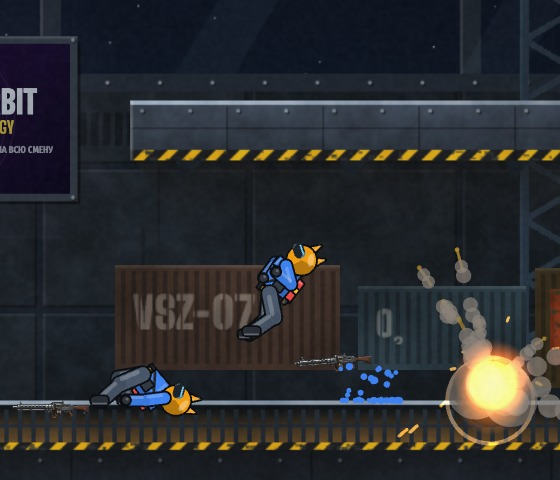
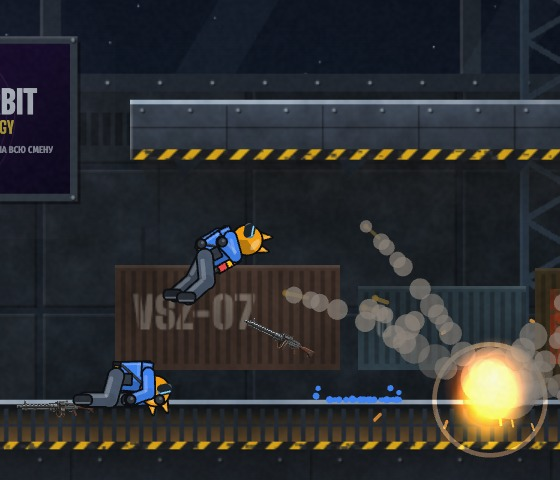
fix: corpses fall at fighter gravity; splash throws by cause
- Corpse gravity is CORPSE_GRAVITY = GRAVITY x 60 / tick rate (0.18 per
  tick^2), the rate living fighters really fall at; the launch scale S
  reads it too (0.674 -> 0.477), so throws keep the mockup's arcs
- Throw and gib power lowered to the mockup's arcs at the new gravity
  (15 -> 12, 9.6 -> 8; gib spread 0.07 -> 0.05)
- DEATH carries an optional blast flag, true for a rocket or grenade
  splash kill: such a corpse is thrown radially at full strength however
  close the blast was (a near splash no longer throws weaker); a shot
  shoves; older hosts without the flag keep the distance rule
- A later blast push is slowed as a whole to the speed cap, like a launch
- Push tests move to corpsePush.test.ts

diff --git a/src/game/systems/ragdoll/corpseLaunch.ts b/src/game/systems/ragdoll/corpseLaunch.ts
@@ -2,10 +2,10 @@
 // Values come from the approved mockup scenes (docs/plans/2026-11-02-death-ragdoll-mockup.html):
 // mockup velocity × S, mockup distances × MOCKUP_SCALE. Pure math on the corpse data.
 
-import { GRAVITY, PHYSICS_TICK_RATE } from '../../../constants';
+import { PHYSICS_TICK_RATE } from '../../../constants';
 import { Vector2 } from '../../../types';
 import { Corpse, CorpsePoint, CorpsePointId } from './corpseBody';
-import { MAX_SPEED } from './corpseStep';
+import { CORPSE_GRAVITY, MAX_SPEED } from './corpseStep';
 
 /** Mockup lengths (136 px fighter) → game units (72-unit fighter). */
 const MOCKUP_SCALE = 0.53;
@@ -13,18 +13,18 @@ const MOCKUP_SCALE = 0.53;
 const MOCKUP_GRAVITY = 0.42;
 /**
  * Mockup velocities (px per 60 Hz frame) → units per tick, keeping every throw's arc and spin in fighter
- * heights: corpse gravity is ~6.5× the mockup's in game units, so velocities scale by √6.5 more than
- * MOCKUP_SCALE / 2 and the throws play out ~2.5× faster than in the mockup.
+ * heights: corpse gravity is ~3.2× the mockup's in game units, so velocities scale by √3.2 more than
+ * MOCKUP_SCALE / 2 and the throws play out ~1.8× faster than in the mockup.
  */
-const S = MOCKUP_SCALE / 2 * Math.sqrt(GRAVITY / (MOCKUP_GRAVITY * MOCKUP_SCALE / 4));
+const S = MOCKUP_SCALE / 2 * Math.sqrt(CORPSE_GRAVITY / (MOCKUP_GRAVITY * MOCKUP_SCALE / 4));
 /** Entity velocity is per 60 Hz frame (Matter's base step); corpse velocity is per tick. */
 const ENTITY_VEL_PER_TICK = 60 / PHYSICS_TICK_RATE;
 
 /** Fall: the hip slips toward the shooter and the knees straighten (backwards from the way the body faces). */
 const FALL_HIP = 1;
 const FALL_KNEE = 1;
-/** Thrown: the mockup's rocket blast (power 15, reach 260); the side nearest the blast gets the most. */
-const THROW_POWER = 15 * S;
+/** Thrown: the mockup's rocket blast (power 15, reach 260), 12 here: its power faded with the distance to the blast, ours only across the body. */
+const THROW_POWER = 12 * S;
 const THROW_REACH = 260 * MOCKUP_SCALE;
 /** A shot: the mockup's shotgun (about 7 back and 3 up per frame). Closer than SHOT_RANGE to the body, `from` is a shot. */
 const SHOT_POWER = 7 * S;
@@ -33,20 +33,17 @@ const SHOT_RANGE = 40;
 const LIFT = 0.45;
 /** No point of a thrown body gets less than this share of the power. */
 const THROW_FLOOR = 0.5;
-/** Gib: the mockup's close blast (power 12, kept at 0.8) and its random scatter... */
-const GIB_POWER = 12 * 0.8 * S;
+/** Gib: the mockup's close blast (12 × 0.8; 8 here for the same reason as THROW_POWER) and its random scatter... */
+const GIB_POWER = 8 * S;
 /** ...plus pieces flying apart from the body's middle: this much speed per unit of distance from it. */
-const GIB_SPREAD = 0.07;
+const GIB_SPREAD = 0.05;
 /** Blast centre when the host sent none: this far in front of the hip (mockup: 40 px for a throw, 26 for a gib). */
 const DEFAULT_THROW_FROM = 40 * MOCKUP_SCALE;
 const DEFAULT_GIB_FROM = 26 * MOCKUP_SCALE;
 /** An explosion pushes corpse points within this radius × its size, fading to nothing at the edge. */
 const PUSH_RADIUS = 150;
 const PUSH_POWER = 13 * S;
-/**
- * Upward share of a later blast's push, more than a fresh throw's LIFT: a lying body has the floor
- * under it, so a blast beside it mostly shoves it along the floor; with this it hops up as well.
- */
+/** Upward share of a later blast's push, more than LIFT: a lying body on the floor hops instead of only sliding. */
 const PUSH_LIFT = 1;
 /** Closer than this to a blast centre a point has no direction: it is pushed straight up. */
 const MIN_DIST = 0.001;
@@ -119,14 +116,14 @@ const fall = (c: Corpse, from: Vector2 | undefined) => {
 const frontOfHip = (c: Corpse, ahead: number): Vector2 => ({ x: c.points.hip.x + c.facing * ahead, y: c.points.hip.y });
 
 /**
- * Shotgun point blank or a rocket nearby: the whole body is flung away. A centre right at the body is
- * a shot (the pellets' last position): a shove of the mockup's shotgun strength. From SHOT_RANGE away
- * on it is a blast of the mockup's rocket strength; in between the two blend.
+ * Shotgun point blank or a rocket nearby: the whole body is flung away. A `splash` kill throws it at
+ * the mockup's rocket strength, a shot shoves it at the mockup's shotgun strength. Older hosts do not
+ * say: a centre within SHOT_RANGE of the body counts as a shot, farther as a blast, in between both blend.
  */
-const thrown = (c: Corpse, from: Vector2 | undefined) => {
+const thrown = (c: Corpse, from: Vector2 | undefined, splash?: boolean) => {
     const at = from ?? frontOfHip(c, DEFAULT_THROW_FROM);
     const near = Math.min(...BODY.map(id => Math.hypot(c.points[id].x - at.x, c.points[id].y - at.y)));
-    const w = Math.min(1, near / SHOT_RANGE);
+    const w = splash === undefined ? Math.min(1, near / SHOT_RANGE) : splash ? 1 : 0;
     blast(c, at, SHOT_POWER + (THROW_POWER - SHOT_POWER) * w, THROW_REACH, THROW_FLOOR, w);
 };
 
@@ -172,10 +169,10 @@ const fitSpeedCap = (c: Corpse) => {
     for (const p of points) { p.px = p.x - (p.x - p.px) * k; p.py = p.y - (p.y - p.py) * k; }
 };
 
-/** Start a fresh corpse moving by its kind of death; `vel` = the victim's velocity (entity units). */
-export const launchCorpse = (c: Corpse, from: Vector2 | undefined, vel: Vector2): void => {
+/** Start a fresh corpse moving by its kind of death; `vel`: the victim's velocity (entity units); `blast`: a splash kill. */
+export const launchCorpse = (c: Corpse, from: Vector2 | undefined, vel: Vector2, blast?: boolean): void => {
     tossGun(c);
-    LAUNCH[c.kind](c, from);
+    LAUNCH[c.kind](c, from, blast);
     const vx = vel.x * ENTITY_VEL_PER_TICK, vy = vel.y * ENTITY_VEL_PER_TICK;
     for (const p of Object.values(c.points)) kick(p, vx, vy);
     fitSpeedCap(c);
@@ -185,13 +182,16 @@ export const launchCorpse = (c: Corpse, from: Vector2 | undefined, vel: Vector2)
 export const pushCorpses = (corpses: Corpse[], x: number, y: number, size = 1): void => {
     const radius = PUSH_RADIUS * size;
     for (const c of corpses) {
+        let touched = false;
         for (const p of Object.values(c.points)) {
             const dx = p.x - x, dy = p.y - y;
             const d = Math.hypot(dx, dy);
             if (d >= radius) continue;
             const f = PUSH_POWER * size * (1 - d / radius);
+            touched = true;
             if (d < MIN_DIST) { kick(p, 0, -f); continue; }
             kick(p, dx / d * f, dy / d * f - f * PUSH_LIFT);
         }
+        if (touched) fitSpeedCap(c);
     }
 };

diff --git a/src/game/systems/ragdoll/corpsePush.test.ts b/src/game/systems/ragdoll/corpsePush.test.ts
@@ -1,0 +1,62 @@
+import { describe, it, expect } from 'vitest';
+import { Platform } from '../../../types';
+import type { DeathEvent } from '../events';
+import { Corpse, createCorpse } from './corpseBody';
+import { MAX_SPEED, speedOf, stepCorpse } from './corpseStep';
+import { launchCorpse, pushCorpses } from './corpseLaunch';
+
+const TOP = 500;
+const FLOOR: Platform = { id: 'floor', x: -2000, y: TOP, w: 4000, h: 40, color: '#000' };
+
+const death = (extra: Partial<DeathEvent> = {}): DeathEvent => ({
+    type: 'DEATH', x: 0, y: TOP, color: '#fff', height: 72, vel: { x: 0, y: 0 }, facing: 1, ...extra,
+});
+
+const run = (c: Corpse, ticks: number, platforms: Platform[] = [FLOOR], each?: () => void) => {
+    for (let i = 0; i < ticks; i++) { stepCorpse(c, platforms); each?.(); }
+};
+
+/** A corpse launched by `kind`, with no hit origin. */
+const launched = (kind: DeathEvent['kind']) => {
+    const c = createCorpse(death({ kind }));
+    launchCorpse(c, undefined, { x: 0, y: 0 });
+    return c;
+};
+
+describe('pushCorpses', () => {
+    it('a blast right on a body is slowed as a whole to the speed cap, not point by point', () => {
+        const c = launched('fall');
+        run(c, 480);
+        const hip = { ...c.points.hip };
+        const before = Object.values(c.points).map(p => ({ x: p.x, y: p.y }));
+        pushCorpses([c], hip.x + 5, hip.y, 2);
+        const speeds = Object.values(c.points).map(p => Math.hypot(p.x - p.px, p.y - p.py));
+        expect(Math.max(...speeds)).toBeCloseTo(MAX_SPEED, 5);
+        // Every kick kept its direction and its share of the strongest one
+        const kicks = Object.values(c.points).map((p, i) => ({ x: p.x - p.px, y: p.y - p.py, at: before[i] }));
+        const nearest = kicks.reduce((a, k) => (Math.hypot(k.at.x - hip.x - 5, k.at.y - hip.y) < Math.hypot(a.at.x - hip.x - 5, a.at.y - hip.y) ? k : a));
+        expect(Math.hypot(nearest.x, nearest.y)).toBeCloseTo(MAX_SPEED, 5);
+        expect(Math.min(...speeds)).toBeLessThan(MAX_SPEED / 2);
+    });
+
+    it('an explosion pushes a lying body', () => {
+        const near = launched('fall');
+        const far = createCorpse(death({ x: 430 }));
+        launchCorpse(far, undefined, { x: 0, y: 0 });
+        run(near, 480);
+        run(far, 480);
+        const farBefore = JSON.stringify(far.points);
+        // Lying still before the blast, so the speed afterwards is the blast's doing
+        expect(speedOf(near)).toBeLessThan(0.1);
+        pushCorpses([near, far], near.points.hip.x + 30, near.points.hip.y);
+        expect(speedOf(near)).toBeGreaterThan(1);
+        // 400 units away: not touched at all
+        expect(Math.abs(far.points.hip.x - near.points.hip.x - 30)).toBeGreaterThan(300);
+        expect(JSON.stringify(far.points)).toBe(farBefore);
+        // It hops off the floor, not only slides along it
+        const top = near.points.hip.y;
+        let highest = top;
+        run(near, 60, [FLOOR], () => { highest = Math.min(highest, near.points.hip.y); });
+        expect(top - highest).toBeGreaterThan(15);
+    });
+});

diff --git a/src/game/systems/ragdoll/corpses.test.ts b/src/game/systems/ragdoll/corpses.test.ts
@@ -3,8 +3,8 @@ import { GameMode, Platform } from '../../../types';
 import { createMockState } from '../../../test/mocks';
 import type { DeathEvent } from '../events';
 import { Corpse, CorpsePointId, createCorpse } from './corpseBody';
-import { MAX_SPEED, speedOf, stepCorpse } from './corpseStep';
-import { launchCorpse, pushCorpses } from './corpseLaunch';
+import { MAX_SPEED, stepCorpse } from './corpseStep';
+import { launchCorpse } from './corpseLaunch';
 import { addCorpse, MAX_CORPSES, updateCorpses } from './corpses';
 
 const TOP = 500;
@@ -65,6 +65,19 @@ describe('launchCorpse', () => {
         }
     });
 
+    it('a splash right beside the body throws it at least as hard as one farther off', () => {
+        const meanSpeed = (dx: number) => {
+            let sum = 0;
+            for (let i = 0; i < REPEAT; i++) {
+                const c = createCorpse(death({ kind: 'thrown' }));
+                launchCorpse(c, { x: c.points.hip.x + dx, y: TOP - 2 }, { x: 0, y: 0 }, true);
+                sum += Math.hypot(c.points.hip.x - c.points.hip.px, c.points.hip.y - c.points.hip.py);
+            }
+            return sum / REPEAT;
+        };
+        expect(meanSpeed(10)).toBeGreaterThanOrEqual(meanSpeed(60));
+    });
+
     it('a fast victim is slowed as a whole to the speed cap, not point by point', () => {
         const c = createCorpse(death({ kind: 'thrown' }));
         launchCorpse(c, { x: c.points.hip.x + 40, y: c.points.hip.y }, { x: -40, y: 0 });
@@ -110,29 +123,6 @@ describe('launchCorpse', () => {
         launchCorpse(moving, undefined, { x: 4, y: 0 });
         const vx = (c: Corpse) => c.points.hip.x - c.points.hip.px;
         expect(vx(moving)).toBeGreaterThan(vx(still) + 1);
-    });
-});
-
-describe('pushCorpses', () => {
-    it('an explosion pushes a lying body', () => {
-        const near = launched('fall');
-        const far = createCorpse(death({ x: 430 }));
-        launchCorpse(far, undefined, { x: 0, y: 0 });
-        run(near, 480);
-        run(far, 480);
-        const farBefore = JSON.stringify(far.points);
-        // Lying still before the blast, so the speed afterwards is the blast's doing
-        expect(speedOf(near)).toBeLessThan(0.1);
-        pushCorpses([near, far], near.points.hip.x + 30, near.points.hip.y);
-        expect(speedOf(near)).toBeGreaterThan(1);
-        // 400 units away: not touched at all
-        expect(Math.abs(far.points.hip.x - near.points.hip.x - 30)).toBeGreaterThan(300);
-        expect(JSON.stringify(far.points)).toBe(farBefore);
-        // It hops off the floor, not only slides along it
-        const top = near.points.hip.y;
-        let highest = top;
-        run(near, 60, [FLOOR], () => { highest = Math.min(highest, near.points.hip.y); });
-        expect(top - highest).toBeGreaterThan(15);
     });
 });
 

diff --git a/src/game/systems/ragdoll/corpseStep.ts b/src/game/systems/ragdoll/corpseStep.ts
@@ -1,10 +1,15 @@
 // One physics tick of a corpse: verlet motion, link relaxation with joint limits, platform collision.
 // Pure math on the corpse data; runs on the client only, at the fixed 120 ticks/s.
 
-import { GRAVITY } from '../../../constants';
+import { GRAVITY, PHYSICS_TICK_RATE } from '../../../constants';
 import { Platform, Vector2 } from '../../../types';
 import { Corpse, CorpseLink, CorpsePoint } from './corpseBody';
 
+/**
+ * Corpse gravity in units per tick²: the rate living fighters really fall at. GRAVITY is added each tick
+ * to an entity velocity that is per 60 Hz frame (Matter's base step), so it moves them by half of it.
+ */
+export const CORPSE_GRAVITY = GRAVITY * 60 / PHYSICS_TICK_RATE;
 /** Share of the velocity kept per tick in the air. */
 const DAMPING = 0.995;
 /** Relaxation passes per tick: more passes = stiffer links. */
@@ -25,7 +30,7 @@ const MIN_DIST = 0.001;
 const CREEP = 1;
 /**
  * Fastest a point may move per tick: under half the thinnest map platform (20 units), a safety net
- * so a falling corpse (terminal speed would be about 72) never skips through a platform in one tick.
+ * so a falling corpse (terminal speed would be about 36) never skips through a platform in one tick.
  */
 export const MAX_SPEED = 9;
 
@@ -102,7 +107,7 @@ const collide = (p: CorpsePoint, from: Vector2, r: Platform): TopContact => {
  */
 const settle = (p: CorpsePoint): void => {
     const vy = p.y - p.py;
-    if (vy < 0 && vy > -GRAVITY) p.py = p.y;
+    if (vy < 0 && vy > -CORPSE_GRAVITY) p.py = p.y;
 };
 
 /** Move an embedded point toward the nearest side, its previous position along, so it gains no speed. */
@@ -146,7 +151,7 @@ export const stepCorpse = (c: Corpse, platforms: Platform[]): void => {
         const speed = Math.hypot(vx, vy);
         if (speed > MAX_SPEED) { vx *= MAX_SPEED / speed; vy *= MAX_SPEED / speed; }
         p.px = p.x; p.py = p.y;
-        p.x += vx; p.y += vy + GRAVITY;
+        p.x += vx; p.y += vy + CORPSE_GRAVITY;
         const embedded = stuck[i];
         if (embedded) creepOut(p, embedded);
     });

diff --git a/src/game/systems/effects.ts b/src/game/systems/effects.ts
@@ -27,12 +27,17 @@ export const emitEffect = (effect: EffectKind, x: number, y: number, color?: str
 export const emitDamage = (x: number, y: number, amount: number) =>
     gameEvents.emit({ type: 'DAMAGE', x, y, amount: Math.round(amount) });
 
-export const emitDeath = (e: Entity, kind: DeathKind = 'fall', from?: Vector2) => gameEvents.emit(deathEvent(e, kind, from));
+export const emitDeath = (e: Entity, kind: DeathKind = 'fall', from?: Vector2, blast = false) =>
+    gameEvents.emit(deathEvent(e, kind, from, blast));
 
-/** The DEATH event for an entity: where it fell, how it died, how it moved and the colours of its corpse. */
-export const deathEvent = (e: Entity, kind: DeathKind = 'fall', from?: Vector2): DeathEvent => ({
+/**
+ * The DEATH event for an entity: where it fell, how it died, how it moved and the colours of its corpse.
+ * `blast`: an explosion's splash killed it (sent only when true).
+ */
+export const deathEvent = (e: Entity, kind: DeathKind = 'fall', from?: Vector2, blast = false): DeathEvent => ({
     type: 'DEATH', x: e.pos.x, y: e.pos.y, color: e.color, height: e.height,
     kind, from: from && { ...from }, vel: { ...e.vel }, facing: e.facingRight ? 1 : -1, weapon: e.weapon.type,
+    ...(blast ? { blast: true } : {}),
     parts: {
         head: e.headColor || e.color,
         torso: e.torsoColor || e.color,

diff --git a/src/game/systems/events.ts b/src/game/systems/events.ts
@@ -19,9 +19,10 @@ export type GameEvent =
     | { type: 'EFFECT'; effect: EffectKind; x: number; y: number; color?: string; count?: number; size?: number }
     | { type: 'DAMAGE'; x: number; y: number; amount: number }
     // How the fighter died, for the corpse each client simulates: `kind` (missing from older hosts: fall),
-    // `from` = blast centre / muzzle / beam origin, `vel` = victim velocity, `weapon` = the gun it held.
+    // `from` = blast centre / muzzle / beam origin, `vel` = victim velocity, `weapon` = the gun it held,
+    // `blast` = killed by an explosion's splash, not a shot (missing from older hosts).
     | { type: 'DEATH'; x: number; y: number; color: string; height: number; parts?: RagdollColors;
-        kind?: DeathKind; from?: Vector2; vel: Vector2; facing: 1 | -1; weapon?: WeaponType }
+        kind?: DeathKind; from?: Vector2; vel: Vector2; facing: 1 | -1; weapon?: WeaponType; blast?: boolean }
     // An objective changed hands (HUD banner). `team`: the flag's team for CTF grabbed/lost/returned,
     // the scoring team for CTF captured, the holder's team in Hold the Flag, NONE for intel.
     | { type: 'FLAG'; kind: FlagKind; action: FlagAction; team: Team };

diff --git a/src/game/systems/combat.ts b/src/game/systems/combat.ts
@@ -9,7 +9,7 @@ import { distance, normalize, checkPointInRect, segmentRectEntry, segmentInterse
 import { resetFlagToBase, handleGunGameKill, handleGunGameDeath, scheduleHungerZoneShrink } from './gamemodes';
 import { trackKill } from './achievements';
 import { emitEffect, emitDamage, emitDeath } from './effects';
-import { deathKind, DamageSource } from './deathKind';
+import { deathKind, DamageSource, isSplash } from './deathKind';
 import { emitFlag } from './flagEvents';
 import { hungerShieldLeft } from './hungerRound';
 
@@ -91,7 +91,7 @@ export const applyDamage = (state: GameState, target: Entity, attackerId: string
         target.dead = true;
         target.respawnTimer = state.mode === GameMode.HUNGER_GAMES ? Number.MAX_SAFE_INTEGER : (Date.now() + RESPAWN_DELAY);
         // Blood, decal and ragdoll: the kind says how the body falls
-        emitDeath(target, deathKind(source, overkill), source.from);
+        emitDeath(target, deathKind(source, overkill), source.from, isSplash(source));
 
         // Hunger Games: shrink zone on each death (executed by tickHungerZoneShrink)
         if (state.mode === GameMode.HUNGER_GAMES) {

diff --git a/src/game/systems/deathCause.test.ts b/src/game/systems/deathCause.test.ts
@@ -48,6 +48,15 @@ describe('the cause of death travels with the DEATH event', () => {
         const death = onlyDeath();
         expect(death.kind).toBe('thrown');
         expect(death.from).toEqual({ x: 0, y: 0 });
+        expect(death.blast).toBe(true); // a splash: thrown by the blast, not shoved like a shot
+    });
+
+    it('shots and direct hits are not splashes', () => {
+        const state = createMockState(GameMode.DEATHMATCH);
+        const hits = [{ weapon: WeaponType.SHOTGUN, direct: true, shooterDist: 50 }, { weapon: WeaponType.ROCKET_LAUNCHER, direct: true }];
+        hits.forEach((source, i) => applyDamage(state, victim(`v${i}`, 5), 's', 65, { x: 1, y: 0 }, 1, source));
+        expect(deaths()).toHaveLength(2);
+        expect(deaths().every(d => !d.blast)).toBe(true);
     });
 
     it('a near blast on a low fighter sends gib', () => {

diff --git a/src/game/systems/deathKind.ts b/src/game/systems/deathKind.ts
@@ -26,6 +26,10 @@ export const GIB_OVERKILL = 30;
 /** A shotgun blast from this close (world units) throws the victim. */
 export const SHOTGUN_POINT_BLANK = 120;
 
+/** An explosion's splash (rocket or grenade blast that did not hit the victim itself), not a shot. */
+export const isSplash = (source: DamageSource): boolean =>
+    (source.weapon === WeaponType.ROCKET_LAUNCHER || source.weapon === WeaponType.GRENADE_LAUNCHER) && !source.direct;
+
 /** `overkill` = the killing hit's damage after armor minus the victim's health right before it. */
 export const deathKind = (source: DamageSource, overkill: number): DeathKind => {
     switch (source.weapon) {

diff --git a/src/game/systems/ragdoll/corpses.ts b/src/game/systems/ragdoll/corpses.ts
@@ -30,7 +30,8 @@ export const addCorpse = (state: GameState, e: DeathEvent): Corpse => {
     const lying = state.corpses.filter(c => c.fadeAt > c.age);
     if (lying.length >= MAX_CORPSES) fadeNow(lying[0]);
     const corpse = createCorpse({ ...e, kind: isDeathKind(e.kind) ? e.kind : 'fall' });
-    launchCorpse(corpse, e.from, e.vel ?? STILL);
+    // A host may send anything: only a real boolean says shot or splash
+    launchCorpse(corpse, e.from, e.vel ?? STILL, typeof e.blast === 'boolean' ? e.blast : undefined);
     state.corpses.push(corpse);
     return corpse;
 };

diff --git a/CHANGELOG.md b/CHANGELOG.md
@@ -6,7 +6,8 @@
 - A death is a jointed ragdoll now (verlet points, links and joint limits; `systems/ragdoll/*`, spec: `docs/plans/2026-11-02-death-ragdoll-spec.md`) drawn with the fighter's own build (`render/ragdoll/*`), instead of 6 loose pieces. It lands, slides and slips off platforms; a body lies 3.5 s and fades 1 s, gib pieces 2 s + 1 s; at most 12 corpses
 - The kind of death follows the killing hit (`systems/deathKind.ts`): machine gun, plasma, zone and falls → falls; shotgun within 120 units → thrown; rocket or grenade direct hit or overkill ≥ 30 → torn apart, otherwise thrown; railgun → cut in two; chainsaw → torn apart. The `DEATH` event carries the kind, the hit origin, the victim velocity, facing and weapon; older hosts fall back to a fall
 - Later explosions push lying corpses (and make them hop); the dropped gun falls on its own
-- Tuning in the game against the approved mockup: launch speeds scale by √(game gravity / mockup gravity) so arcs and spin match the mockup in fighter heights; a shot close to the body shoves the whole body (falls onto its back), a blast farther off throws each point away from it; a launch faster than the step's cap is slowed as a whole; the machine-gun fall straightens the knees so the body ends flat on its back; cut legs bend at the knees when drawn (no boots through the floor)
+- Corpses fall at the rate living fighters really fall (`CORPSE_GRAVITY` = GRAVITY × 60 / tick rate = 0.18 per tick², `ragdoll/corpseStep.ts`), so a fighter killed in mid-air keeps falling the same way
+- Tuning in the game against the approved mockup: launch speeds scale by √(corpse gravity / mockup gravity), so arcs and spin match the mockup in fighter heights (played ~1.8× faster); throw and gib power lowered to the mockup's arcs (12 and 8, the mockup's power faded with distance to the blast); a splash kill (rocket or grenade blast, new optional `blast` flag on `DEATH`) throws each point away from the blast at full strength however close it went off, a shot shoves the whole body (falls onto its back); events from older hosts without the flag decide by the distance of the hit; a launch or a later blast push faster than the step's cap is slowed as a whole; the machine-gun fall straightens the knees so the body more often ends flat on its back; cut legs bend at the knees when drawn (no boots through the floor)
 - Each client simulates its own corpses from the event, the server never does; 8 deaths at once keep 120 fps at 1512 × 700
 
 ## Version 0.4.11 (2026-11-03)
